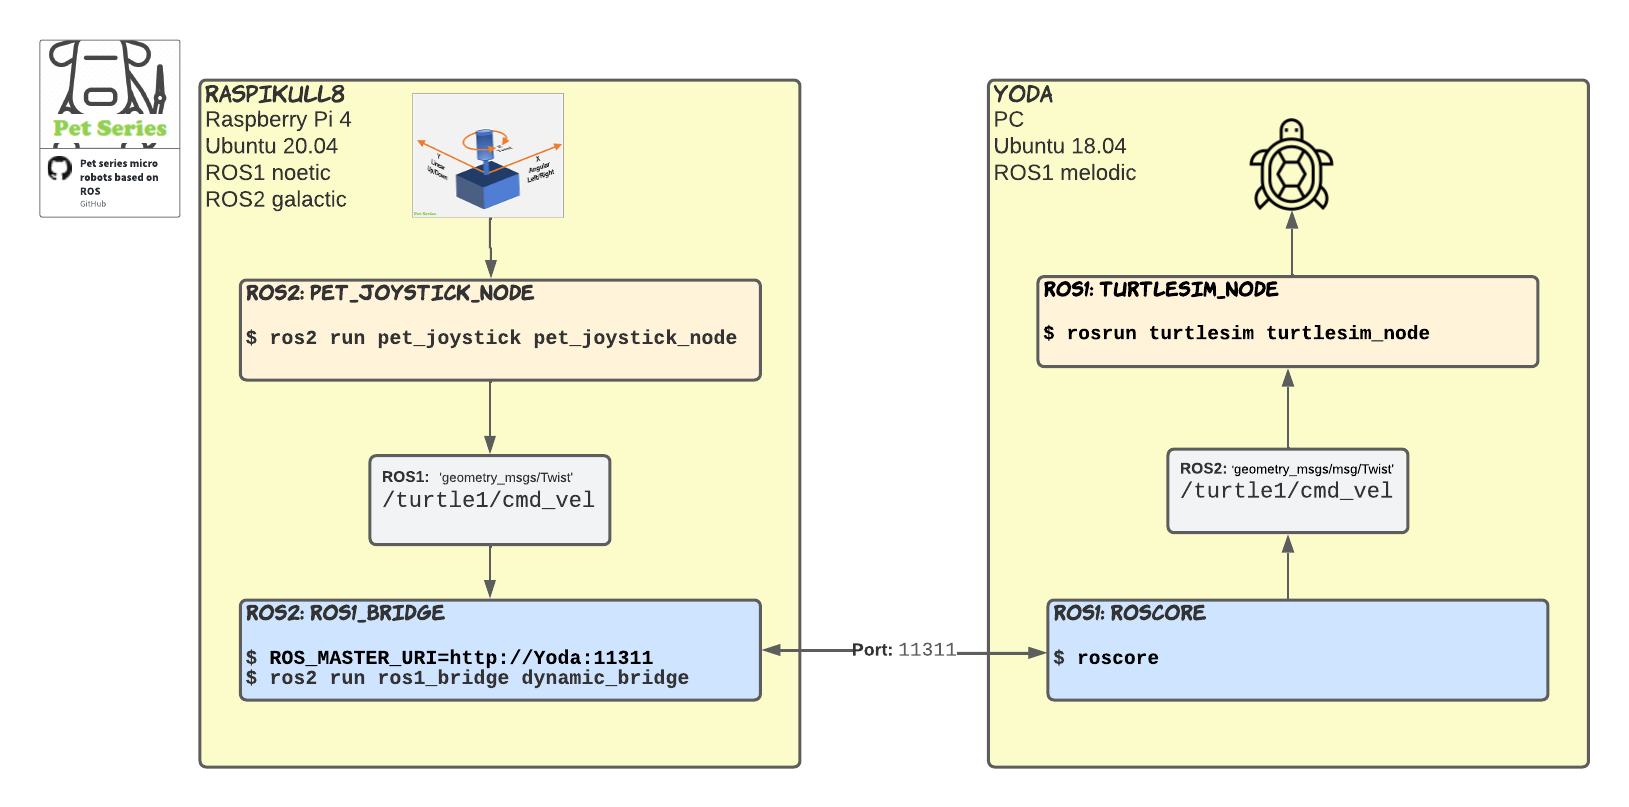
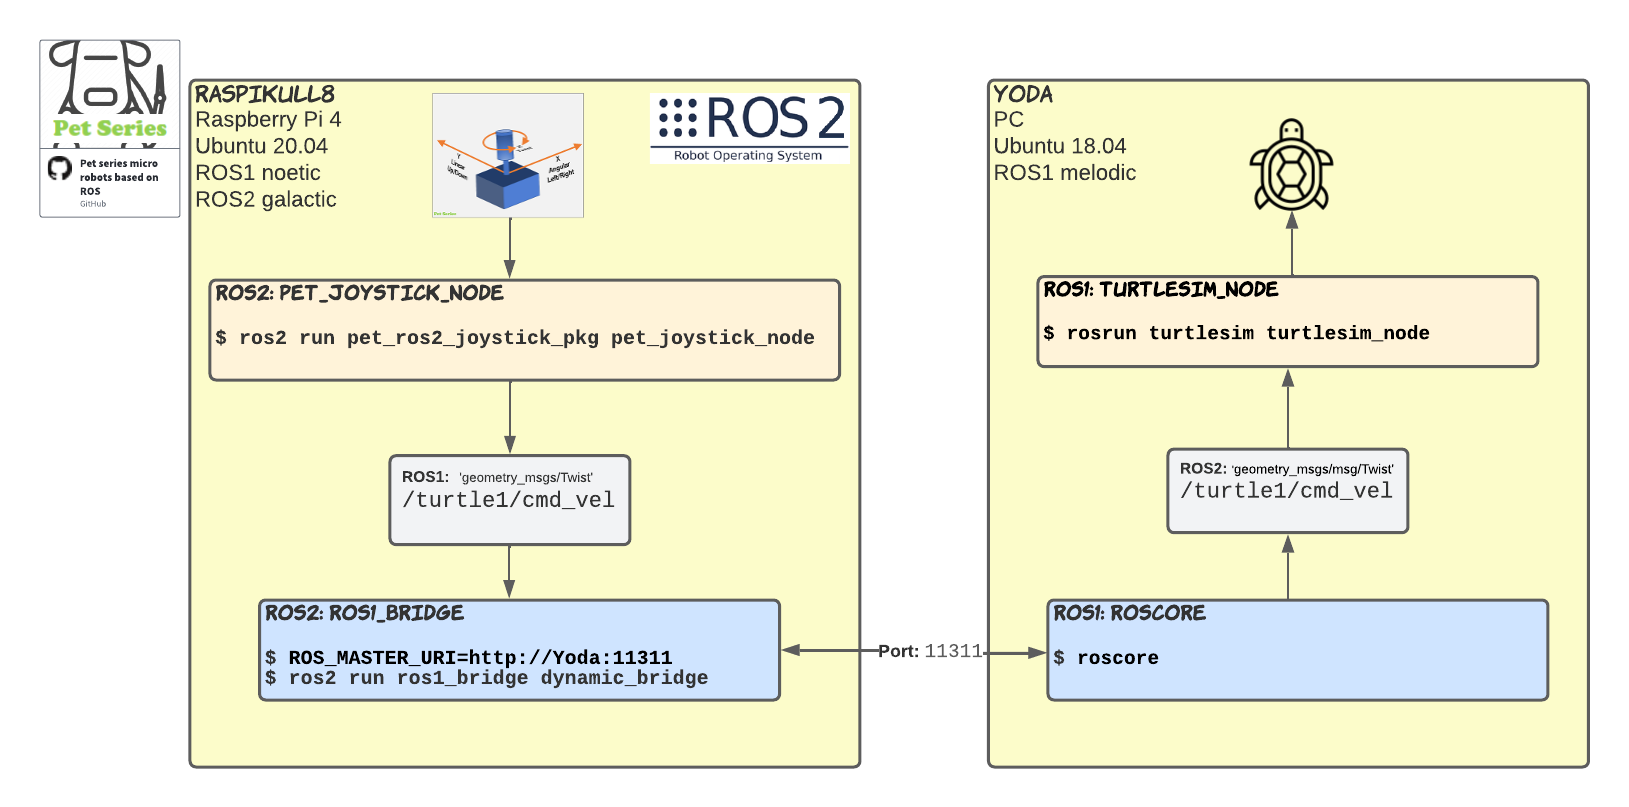
Updated README.md due to new launch file due to new launch file + New pkg.name

diff --git a/README.md b/README.md
@@ -18,7 +18,7 @@ Remotely control your robot via cmd_vel topic \
     </tr>
   </table>
 
-## ROS2 Package/Module Behaviour
+# ROS2 Package/Module Behaviour
 1. Once: Read/Set all the parameters
 1. Repeatedly: Read analog joystick via ADC
 1. Repeatedly: Transform indata to a +/-100% values
@@ -38,17 +38,13 @@ flowchart TD
     Publish   --> |Loop|Read_A/D
 ```
 
-## Prerequisite: Hardware
+# Prerequisite: Hardware
 * Single Board Computer(SBC): Raspberry Pi 3/4
 * A/D converter: KY-053 Analog Digital Converter (ADS1115, 16-bit) via default I2C adr.=<code>0x48</code>
-<ul><blockquote>🌐Google tips to find/order A/D-converter from eBay/AliExpress/Wish/Amazon/...  <br></ul>
-1) "KY-053"<br>
-2) "ADS1115 breakout board"
-<table>
 * Joystick: 3x analog 10K resistors. X-, Y- and Twist-axis.
 <ul><blockquote>🌐Google tips to find/order Joystick from eBay/AliExpress/Wish/Amazon/...  <br>
-1) "3-axis analog joy stick"<br>
-2) "XYZ analog joystick"
+1) "3-axis analog joystick"<br>
+2) "XYZ analog joystick"</ul>
 <table>
   <tr>
     <td>
@@ -60,13 +56,13 @@ flowchart TD
   </tr>
 </table>
 
-## Prerequisite: Software
+# Prerequisite: Software
 * Ubuntu 20.04 (64bit) or newer
 * Robot Operating System 2, ROS2 (Version Galathic)
   <blockquote>...do the ROS2-installation stuff...</blockquote>
 
 ## Prerequisite: I2C-interface Raspberry Pi 4 / Ubuntu
-Prepared by adding additional, i2c communication, Linux-software-packages 
+Prepared by adding additional, i2c communication, Linux-software-packages <br/>
 `Ubuntu Shell`
 ```
 ~$ sudo apt install i2c-tools
@@ -104,7 +100,7 @@ Dowload ROS2 package by using 'git clone'
 ~/ws_ros2$ source ./install/setup.bash
 ```
 
-## ROS2 Launch sequence
+# ROS2 Launch sequence
 `Ubuntu Shell`
 ```
 ~/ws_ros2$ ros2 run pet_ros2_joystick_pkg pet_joystick_node
@@ -126,7 +122,8 @@ The <code>pet_joystick_node</code> parallel publishes three variants of topics m
   /twist/cmd_vel
   /twist_stamped/cmd_vel
 ```
-
+<ul><img src="doc/rqt_node_graph-joystick_node.png" height="300px"></ul>
+<br>
 ## ROS2 Parameters used by this package
 Save a "dump" of all the parameters that <code>pet_joystick_node</code> uses.
 `Ubuntu Shell`
@@ -162,9 +159,9 @@ In the following list you can see all the parameters that <code>pet_joystick_nod
 </ul>
 <br>
 
----
+# Test the Jotstick node
 
-## ROS2 Test pet_joystick_node using TurtleSim
+## ROS2 Test pet_joystick_node using TurtleSim (indivudal start)
 Objective is to control the simulated turtle on screen by using <code>pet_joystick_node</code>.
 <ul><blockquote>🤔Most probably have you already the TurtleSim installed as a part of ROS2.<br>
                 ...I will not cover that here!
@@ -201,8 +198,29 @@ One way to do this is set the parameter <code>-p ros_topic_twist:=turtle1/cmd_ve
 
 <br>
 
----
+## ROS2 Launch pet_joystick_node and TurtleSim node via .launch.py file
+The same test case as above - TurtleSim Node + Joystick Node.<br/>
+But this time we launch in one step, via a <code>.launch</code> file.
+
+<code>Ubuntu Shell</code>
+```
+~/ws_ros2$ $ ros2 launch pet_ros2_joystick_pkg turtle_joystick.launch.py 
+  [INFO] [launch]: All log files can be found below /home/ubuntu/.ros/log/2022-03-06-21-16-49-679386-raspikull8-178148
+  [INFO] [launch]: Default logging verbosity is set to INFO
+  [INFO] [turtlesim_node-1]: process started with pid [178150]
+  [INFO] [pet_joystick_node-2]: process started with pid [178152]
+
+  [turtlesim_node-1] [INFO] [1646597810.933757565] [turtlesim]: Starting turtlesim with node name /turtlesim
+  [turtlesim_node-1] [INFO] [1646597810.943631886] [turtlesim]: Spawning turtle [turtle1] at x=[5,544445], y=[5,544445], theta=[0,000000]
+  
+  [pet_joystick_node-2] [INFO] [1646597813.077173940] [joystick_node]: joystick_node has started
+  [pet_joystick_node-2] [INFO] [1646597813.079749163] [joystick_node]: - A/D: 0x48, X-chn: 3, Y-chn: 1, Z-chn: 2
+  [pet_joystick_node-2] [INFO] [1646597813.082246831] [joystick_node]: - A/D sampling: 10.0Hz, Topic: turtle1/cmd_vel
+~/ws_ros2$
+``` 
+<ul><img src="doc/rqt_node_graph-joystick_node+turtlesim_node(.launch_file).png" height="300px"></ul>
+<br>
 
 ## ROS2 Test pet_joystick_node via ROS1_Bridge to TurtleSim on an other PC running ROS1
-If the target system is based on ROS1 (some legasy robot...). Then this is how you bridge the ROS2 based Joystick_node over to a ROS1 based target system (in this example running TurtleSim under ROS1).
-  <img src="doc/ROS2_Joystick-Bridge-ROS1_Turtle.png" width="1100px">
+If the target system is based on ROS1 (some legasy robot...). Then this is how you bridge the ROS2 based Joystick_node over to a ROS1 based target system (in this example running TurtleSim under ROS1).<br>
+<ul><img src="doc/ROS2_Joystick-Bridge-ROS1_Turtle.png" width="1100px"></ul>
